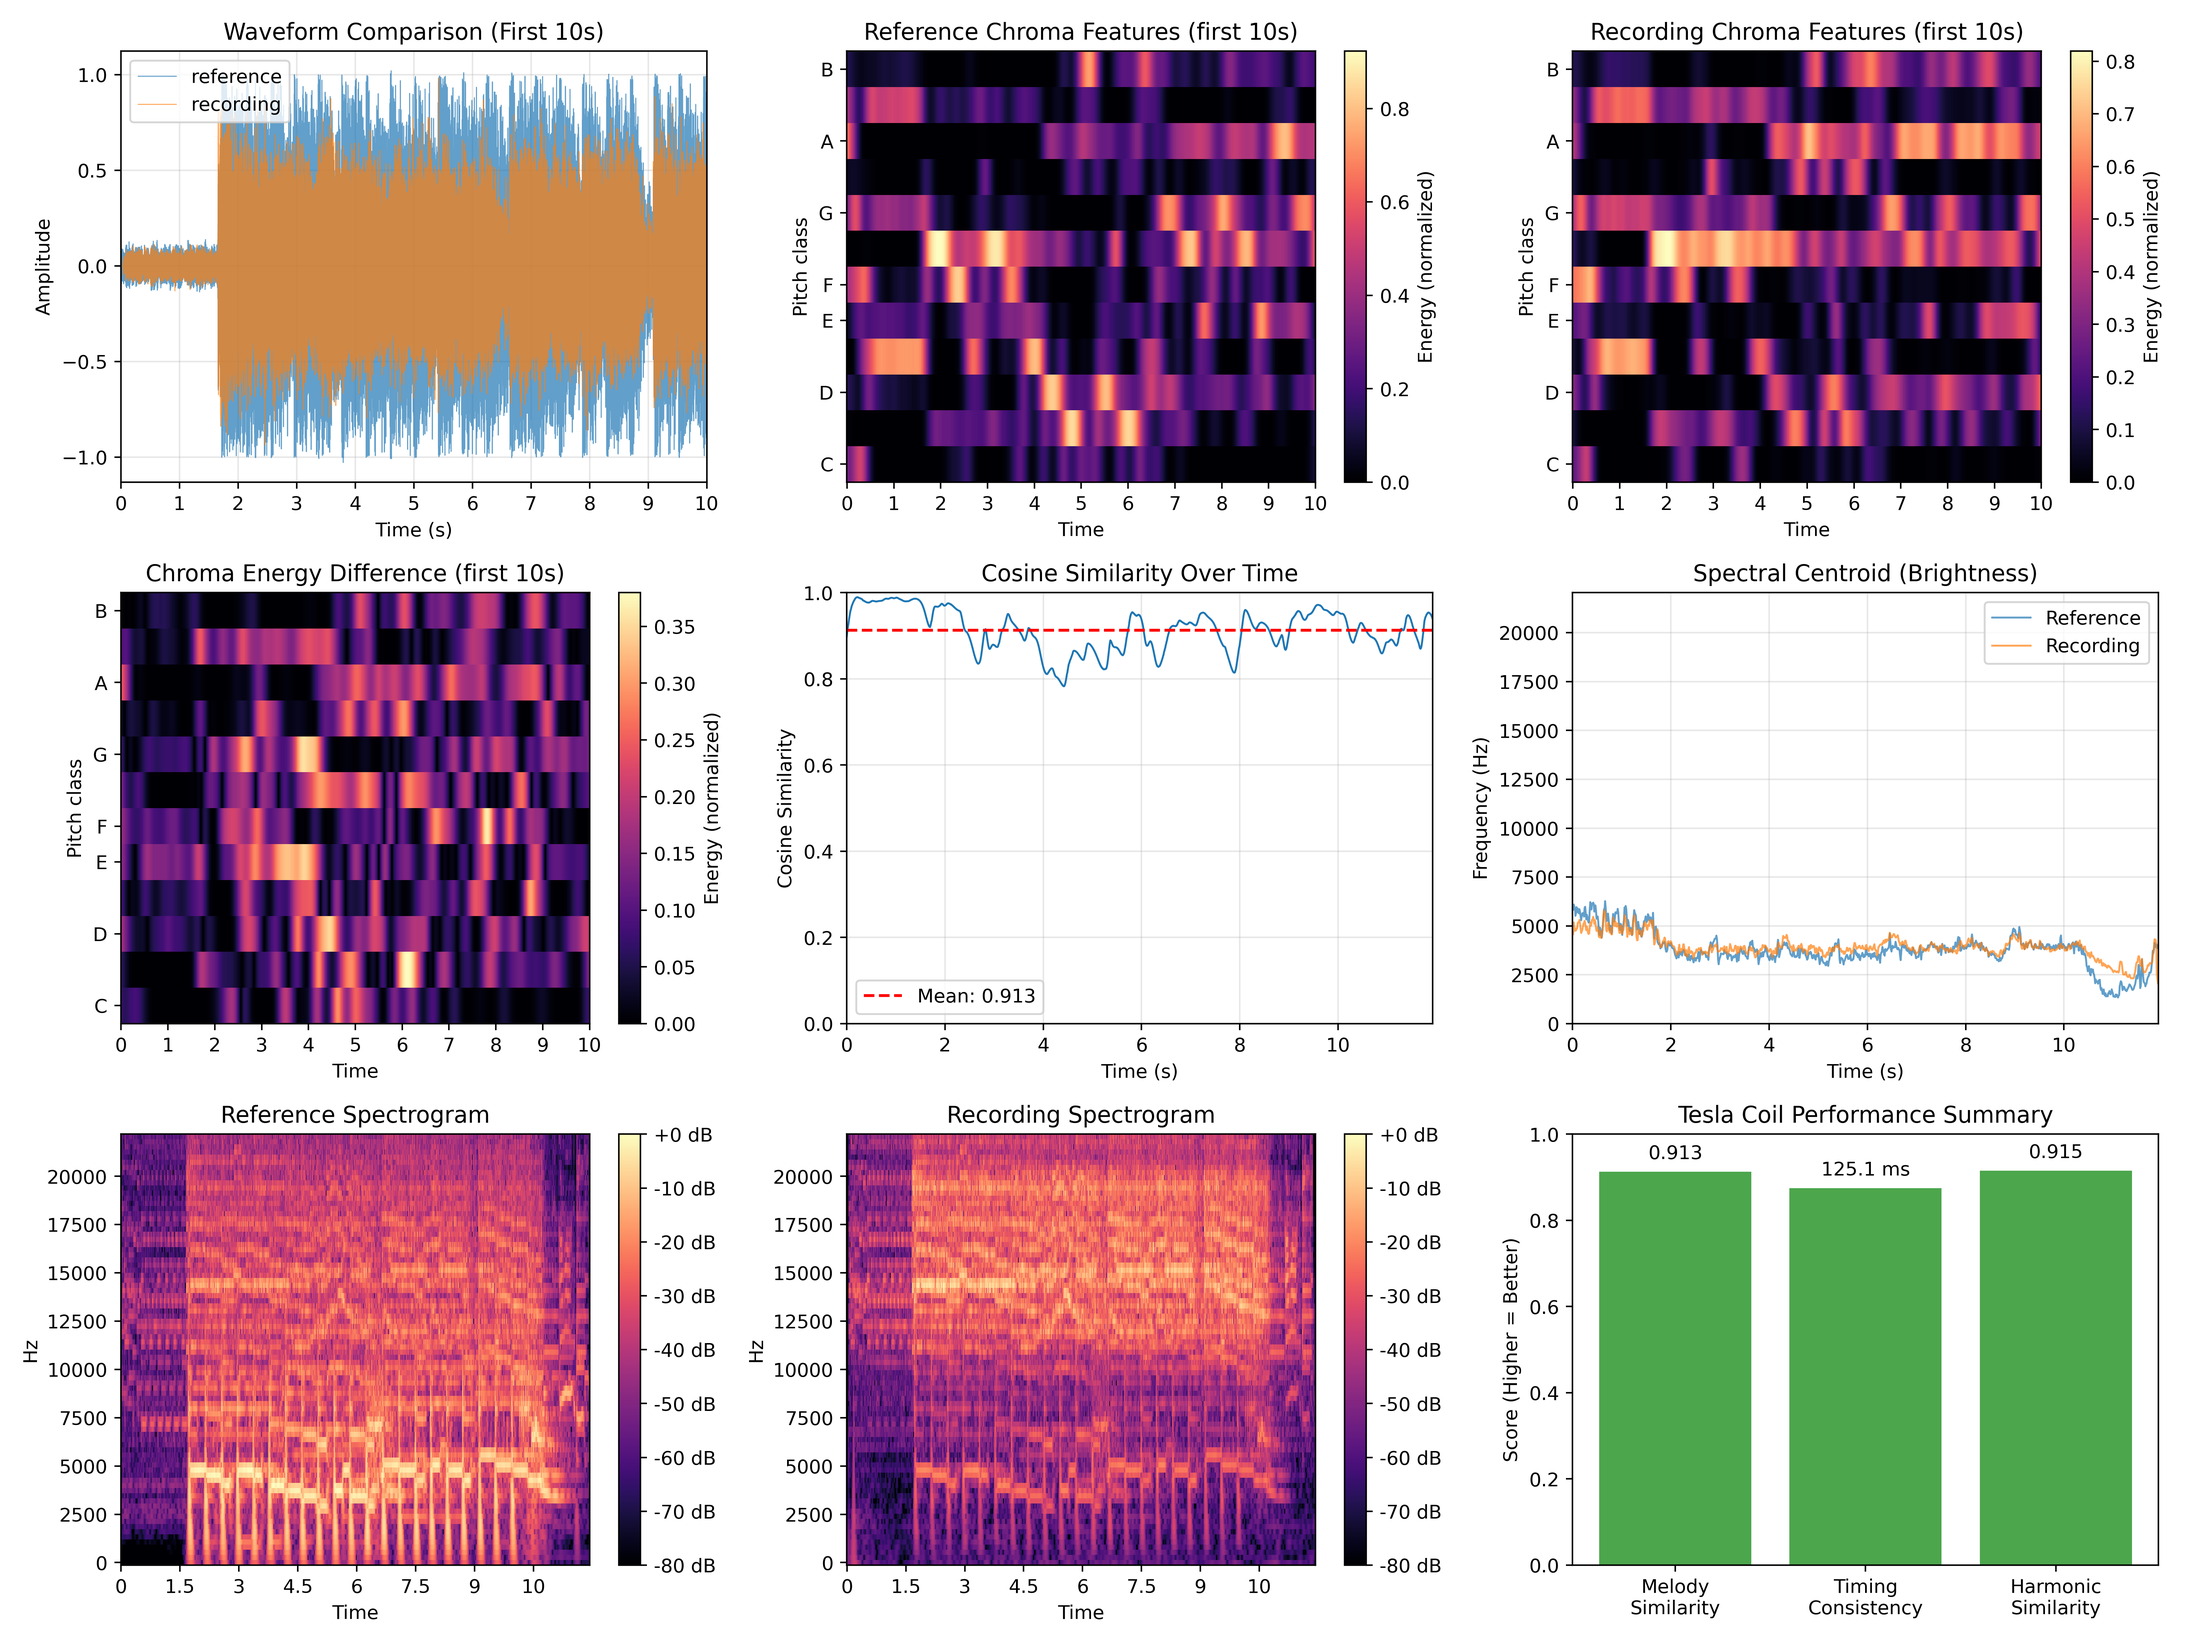
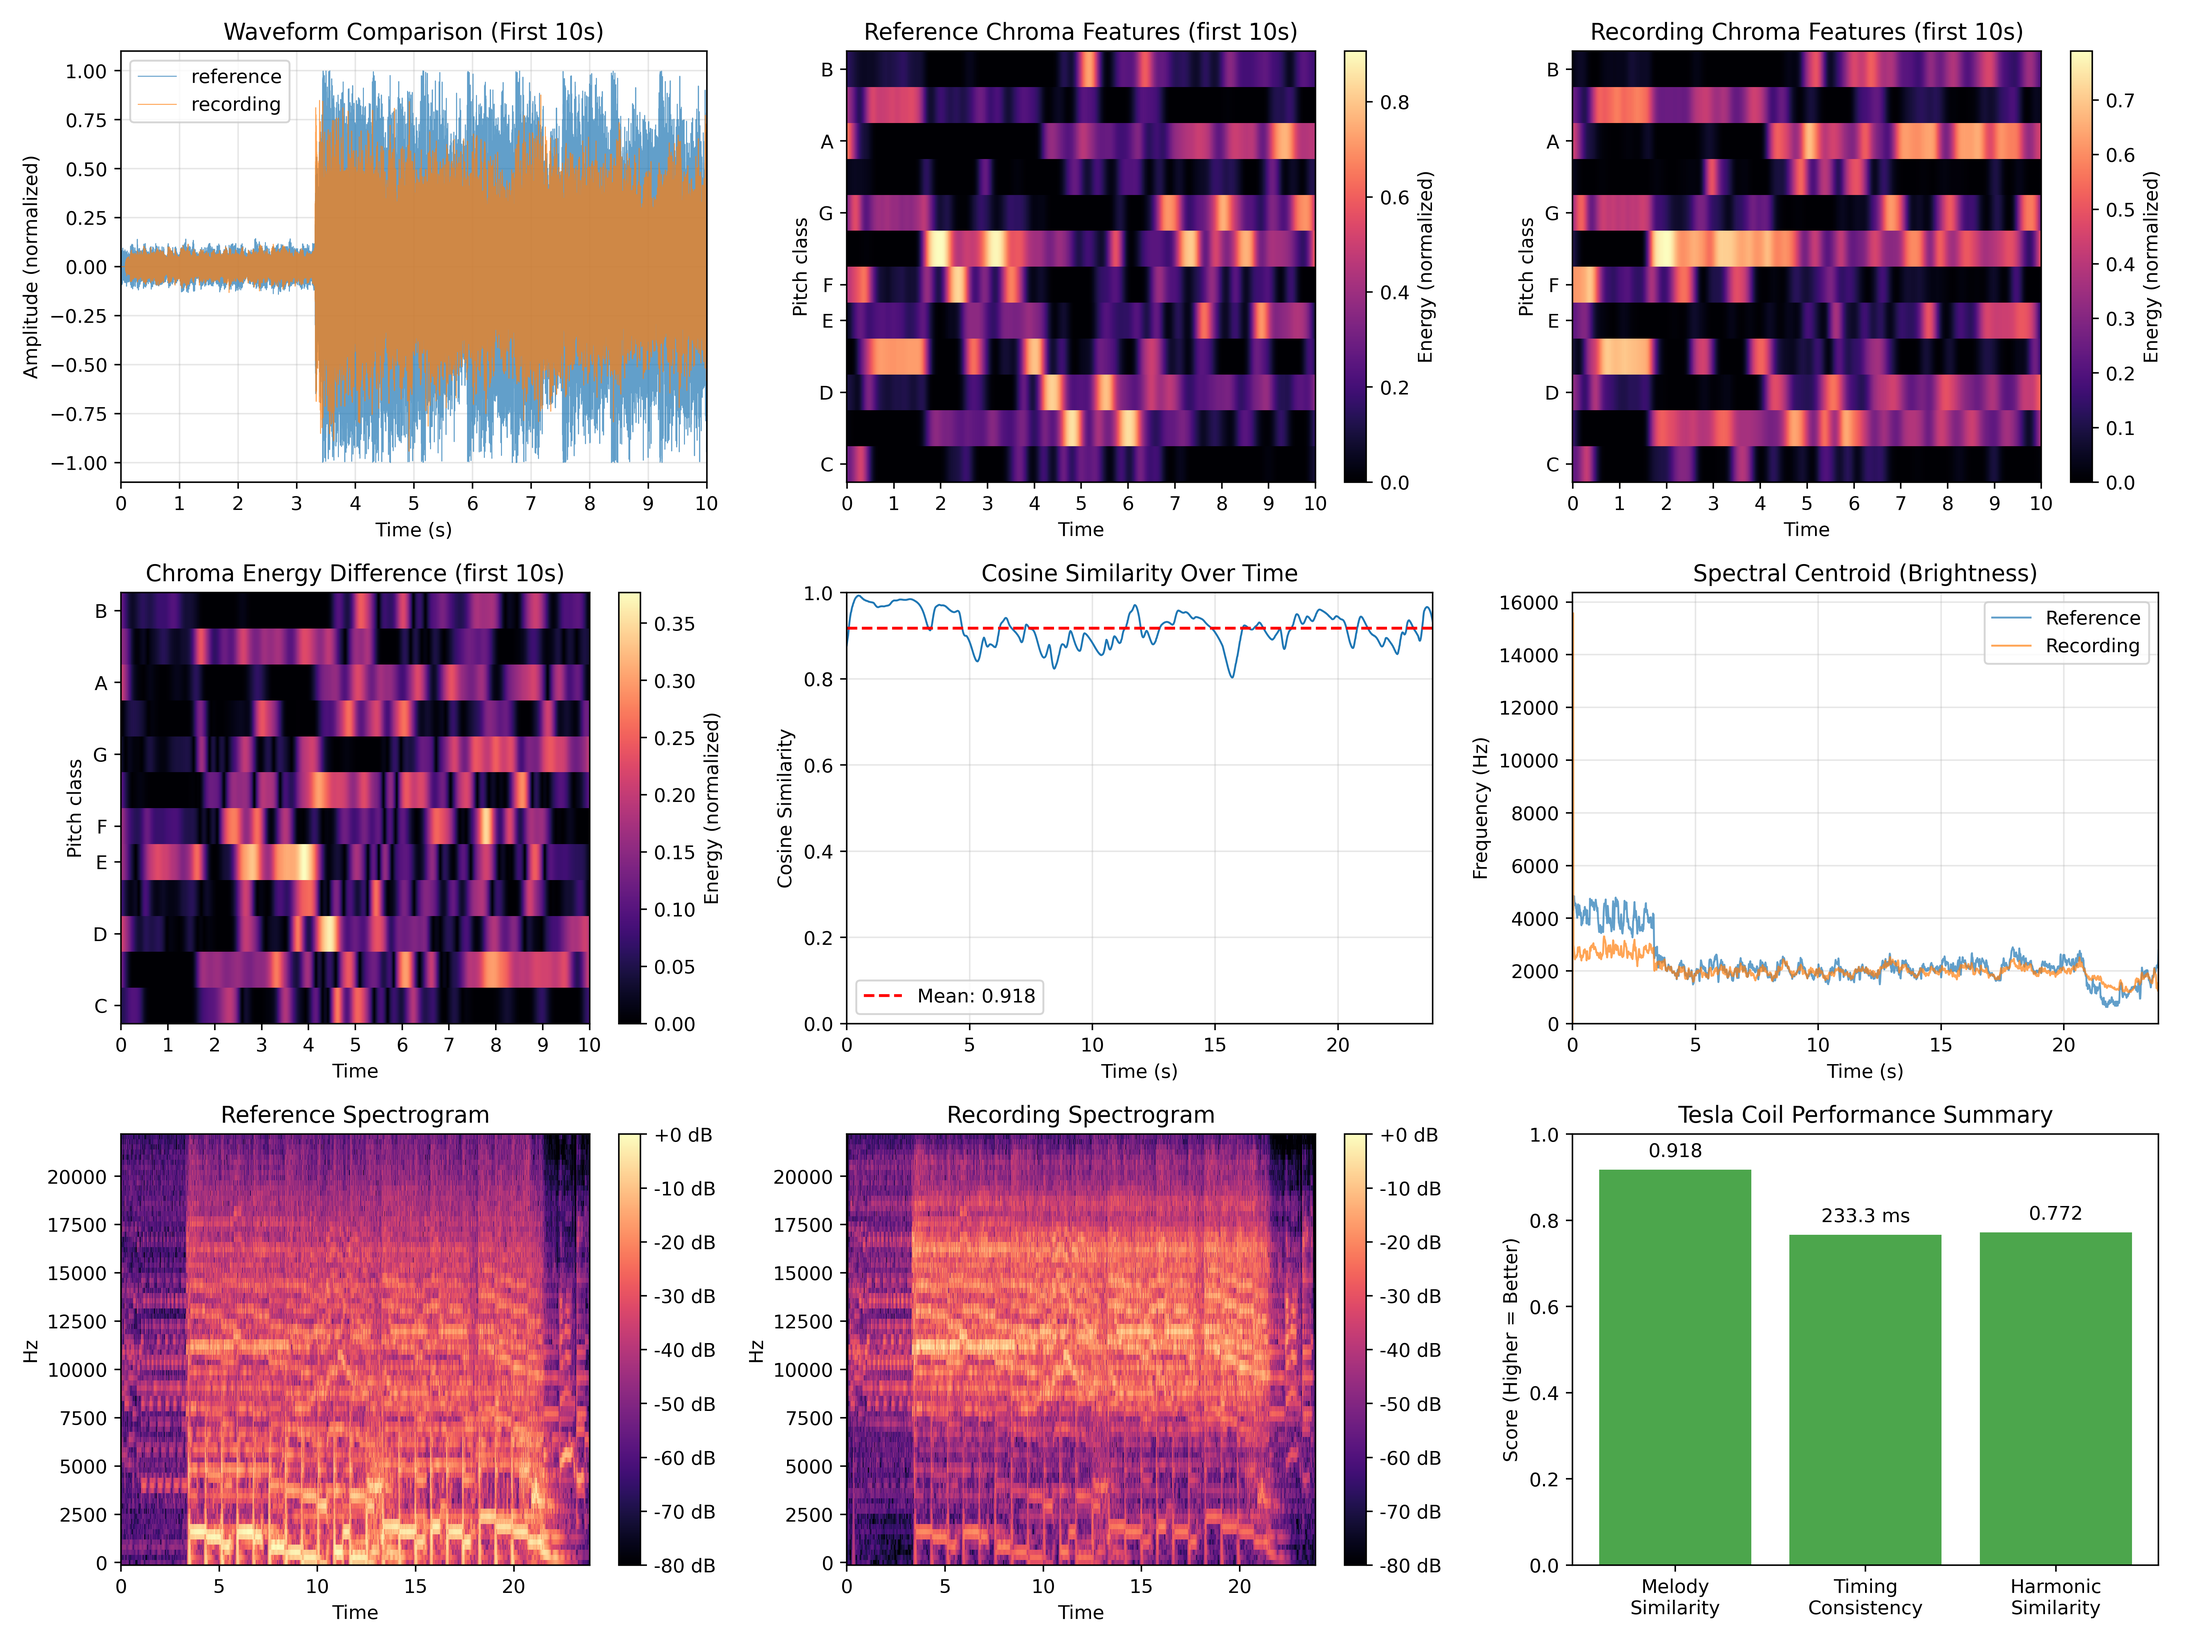
fixed

diff --git a/analysis/script.py b/analysis/script.py
@@ -15,7 +15,7 @@ def find_audio_alignment(y1, y2, sr, max_offset_seconds=15):
     Find the best alignment between two audio signals using cross-correlation.
     Returns the offset in samples (positive means y2 starts later than y1).
     """
-    print("Finding audio alignment...")
+    # print("Finding audio alignment...")
     
     # Use shorter segments for faster computation (first 30 seconds)
     max_samples = int(30 * sr)
@@ -36,7 +36,7 @@ def find_audio_alignment(y1, y2, sr, max_offset_seconds=15):
         print(f"Warning: Large offset detected ({best_lag/sr:.2f}s), limiting to {max_offset_seconds}s")
         best_lag = np.clip(best_lag, -max_offset_samples, max_offset_samples)
     
-    print(f"Best alignment: {best_lag/sr:.3f} seconds offset")
+    # print(f"Best alignment: {best_lag/sr:.3f} seconds offset")
     return best_lag
 
 
@@ -51,12 +51,12 @@ def sync_and_trim_audio(y1, y2, sr):
         # y2 starts later than y1, so trim start of y1
         y1_synced = y1[offset:]
         y2_synced = y2.copy()
-        print(f"Trimmed {offset/sr:.3f}s from start of first audio")
+        print(f"Trimmed {offset/sr:.3f}s from start of first audio for best alignment")
     elif offset < 0:
         # y1 starts later than y2, so trim start of y2
         y1_synced = y1.copy()
         y2_synced = y2[-offset:]
-        print(f"Trimmed {-offset/sr:.3f}s from start of second audio")
+        print(f"Trimmed {-offset/sr:.3f}s from start of second audio for best alignment")
     else:
         # Already aligned
         y1_synced = y1.copy()
@@ -121,15 +121,25 @@ def calculate_harmonic_content_similarity(y_reference, y_recording, sr):
 
 
 def load_preprocess(reference_file, recording_file):
-    y_reference, sr = librosa.load(reference_file, sr=44100)
-    print(f"Loaded reference: {len(y_reference)} samples ({len(y_reference)/sr:.2f} seconds)")
+    y_reference, sr_ref = librosa.load(reference_file, sr=None)
+    print(f"Loaded reference: samplerate {sr_ref/1000:.1f} kHz, {len(y_reference)} samples ({len(y_reference)/sr_ref:.2f} seconds)")
 
 
-    y_recording, sr = librosa.load(recording_file, sr=44100)
-    print(f"Loaded recording: {len(y_recording)} samples ({len(y_recording)/sr:.2f} seconds)")
+    y_recording, sr_rec = librosa.load(recording_file, sr=None)
+    print(f"Loaded recording: , samplerate {sr_rec/1000:.1f} kHz, {len(y_recording)} samples ({len(y_recording)/sr_rec:.2f} seconds)")
+
+    target_sr = 44100
+    if sr_ref != target_sr:
+        print(f"Reference samplerate not 44.1 kHz, resampling...")
+        y_reference = librosa.resample(y_reference, orig_sr=sr_ref, target_sr=target_sr)
+    if sr_rec != target_sr:
+        print(f"Recording samplerate not 44.1 kHz, resampling...")
+        y_recording = librosa.resample(y_recording, orig_sr=sr_rec, target_sr=target_sr)
+    
+    sr = target_sr
 
 
-    print("Syncing and trimming files")
+    # print("Syncing and trimming files")
     y_reference, y_recording = sync_and_trim_audio(y_reference, y_recording, sr)
     
     # Normalize amplitude to remove differences in audio volume
@@ -143,15 +153,17 @@ def analyze_chroma(y_reference, y_recording, sr, reference_file, recording_file,
     # Using Nyquist's on the new rate we get a cutoff frequency of about 11 kHz (like a lowpass filter)
     # This means we'll ignore any freqs above that. Most melodies never touch above these frequencies, nor do ours.
     # The lowpass filter not only blocks out irrelevant freqs but also coil noise. We only do this for chroma analysis.
-    y_reference = librosa.resample(y_reference, orig_sr=sr, target_sr=22050)
-    y_recording = librosa.resample(y_recording, orig_sr=sr, target_sr=22050)
+    chroma_sr = sr/2
+
+    chroma_reference = librosa.resample(y_reference, orig_sr=sr, target_sr=chroma_sr)
+    chroma_recording = librosa.resample(y_recording, orig_sr=sr, target_sr=chroma_sr)
     
     # Extract chroma features using CENS
     # Mainly following one of their official articles:
     # https://librosa.org/doc/0.11.0/auto_examples/plot_chroma.html
-    chroma_reference = librosa.feature.chroma_cens(y=librosa.effects.harmonic(y_reference), sr=sr, hop_length=512)
-    chroma_recording = librosa.feature.chroma_cens(y=librosa.effects.harmonic(y_recording), sr=sr, hop_length=512)
-    print("Extracted chroma features")
+    chroma_reference = librosa.feature.chroma_cens(y=librosa.effects.harmonic(chroma_reference), sr=chroma_sr, hop_length=512)
+    chroma_recording = librosa.feature.chroma_cens(y=librosa.effects.harmonic(chroma_recording), sr=chroma_sr, hop_length=512)
+    # print("Extracted chroma features")
     
     # Use Dynamic Time Warping to account for timing variations
     # While we don't have a musician playing sheet music, whose timing might be imperfect,
@@ -159,7 +171,7 @@ def analyze_chroma(y_reference, y_recording, sr, reference_file, recording_file,
     # ESP32 -> driver -> transformer -> mosfet control -> arc formation by ionizing air
     alignment = dtw(chroma_reference.T, chroma_recording.T, distance_only=False)
     dtw_path = list(zip(alignment.index1, alignment.index2))
-    print("Calculated DTW alignment")
+    # print("Calculated DTW alignment")
     
     # Align using DTW
     path_array = np.array(dtw_path)
@@ -194,13 +206,17 @@ def analyze_chroma(y_reference, y_recording, sr, reference_file, recording_file,
 
     # Calculate supporting metrics
     timing_jitter = calculate_timing_jitter(dtw_path)
-    hop_time = 512 / sr  # Time per frame
+    hop_time = 512 / chroma_sr  # Time per frame
     timing_jitter_ms = timing_jitter * hop_time * 1000  # Convert to milliseconds
     
     harmonic_similarity, spectral_centroids = calculate_harmonic_content_similarity(y_reference, y_recording, sr)
-    
-    print(f"\nResults:")
-    print(f"PRIMARY METRIC:")
+
+    # Print results
+    print("\n" + "="*60)
+    print("TESLA COIL PERFORMANCE ANALYSIS")
+    print("="*60)
+
+    print(f"\nPRIMARY METRIC:")
     print(f"  Mean cosine similarity (DTW-aligned): {mean_cosine_similarity:.4f} (higher is better)")
     print(f"\nSUPPORTING METRICS:")
     print(f"  Timing jitter: {timing_jitter_ms:.2f} ms (lower is better)")
@@ -220,25 +236,31 @@ def create_analysis_plots(y_reference, y_recording, chroma_reference, chroma_rec
                          cosine_similarities, sr, mean_cosine_similarity, 
                          timing_jitter_ms, harmonic_similarity, spectral_centroids, reference_file, recording_file):
     
+
     fig = plt.figure(figsize=(16, 12))
-    
+
     # Time axis for audio
     time_audio = np.linspace(0, len(y_reference)/sr, len(y_reference))
     time_chroma = np.linspace(0, len(y_reference)/sr, chroma_reference.shape[1])
     time_cosine = np.linspace(0, len(y_reference)/sr, len(cosine_similarities))
-    
-    # 1. Waveform comparison (abs)
+
+
+    # 1. Waveform comparison (first 10s, or shorter if needed)
     plt.subplot(3, 3, 1)
-    plt.plot(time_audio[:sr*10], y_reference[:sr*10], alpha=0.7, label='reference', linewidth=0.5)
-    plt.plot(time_audio[:sr*10], y_recording[:sr*10], alpha=0.7, label='recording', linewidth=0.5)
-    plt.title('Waveform Comparison (First 10s)')
+    duration_to_plot = 10  # seconds
+    num_samples_10s = min(len(y_reference), int(duration_to_plot * sr))
+    time_audio_10s = np.linspace(0, num_samples_10s / sr, num_samples_10s)
+
+    plt.plot(time_audio_10s, y_reference[:num_samples_10s], alpha=0.7, label='reference', linewidth=0.5)
+    plt.plot(time_audio_10s, y_recording[:num_samples_10s], alpha=0.7, label='recording', linewidth=0.5)
+    plt.title(f'Waveform Comparison (First {duration_to_plot}s)')
     plt.xlabel('Time (s)')
-    plt.ylabel('Amplitude')
-    plt.xlim(0, 10)
-    plt.xticks(range(0, 11))
+    plt.ylabel('Amplitude (normalized)')
+    plt.xlim(0, duration_to_plot)
+    plt.xticks(range(0, duration_to_plot + 1))
     plt.legend()
     plt.grid(True, alpha=0.3)
-    
+
     # 2. Chroma features - reference (first 10s)
     plt.subplot(3, 3, 2)
     frames_10s = int(10 * sr / 512)
@@ -284,7 +306,7 @@ def create_analysis_plots(y_reference, y_recording, chroma_reference, chroma_rec
     plt.title('Spectral Centroid (Brightness)')
     plt.xlabel('Time (s)')
     plt.ylabel('Frequency (Hz)')
-    plt.ylim(0, int(np.ceil(sr/2))) # take nyquist value aka max freq we can analyze
+    plt.ylim(0, None)
     plt.xlim(0, time_cent[-1])
     # plt.xticks(range(0, 11))
     plt.legend()
@@ -337,55 +359,6 @@ def create_analysis_plots(y_reference, y_recording, chroma_reference, chroma_rec
 
     plt.savefig(f'allresults_{reference_file}_{recording_file}.png', dpi=400)
     plt.show()
-    
-    # Print results
-    print("\n" + "="*60)
-    print("TESLA COIL PERFORMANCE ANALYSIS:")
-    print("="*60)
-    
-    if np.isnan(mean_cosine_similarity):
-        print("⚠  WARNING: Could not calculate melody similarity (numerical issues)")
-        print("   This might indicate silent periods or very low energy in the audio")
-    elif mean_cosine_similarity > 0.8:
-        print("🟢 EXCELLENT melody reproduction - Tesla coil reproduces music very well")
-    elif mean_cosine_similarity > 0.7:
-        print("🟡 GOOD melody reproduction - Tesla coil reproduces music recognizably")
-    elif mean_cosine_similarity > 0.5:
-        print("🟠 MODERATE melody reproduction - Some musical content preserved")
-    else:
-        print("🔴 LOW melody reproduction - Significant differences in musical content")
-    
-    # Timing analysis
-    if timing_jitter_ms < 50:
-        print("🟢 EXCELLENT timing consistency")
-    elif timing_jitter_ms < 150:
-        print("🟡 GOOD timing consistency")
-    elif timing_jitter_ms < 300:
-        print("🟠 MODERATE timing consistency - some timing drift")
-    else:
-        print("🔴 POOR timing consistency - significant timing variations")
-    
-    # Harmonic analysis
-    if harmonic_similarity > 0.9:
-        print("🟢 EXCELLENT harmonic content preservation")
-    elif harmonic_similarity > 0.7:
-        print("🟡 GOOD harmonic content preservation")
-    elif harmonic_similarity > 0.5:
-        print("🟠 MODERATE harmonic content preservation")
-    else:
-        print("🔴 LOW harmonic content preservation")
-    
-    print(f"\nFor reference:")
-    print(f"- Perfect melody reproduction would give similarity ≈ 1.0")
-    print(f"- Perfect timing would give jitter ≈ 0 ms")
-    print(f"- Perfect harmonic preservation would give similarity ≈ 1.0")
-    if not np.isnan(mean_cosine_similarity):
-        print(f"\nYour Tesla coil results:")
-        print(f"- Melody similarity: {mean_cosine_similarity:.3f}")
-        print(f"- Timing jitter: {timing_jitter_ms:.1f} ms")
-        print(f"- Harmonic similarity: {harmonic_similarity:.3f}")
-    else:
-        print(f"- Your result: Could not calculate (check for silence/low energy)")
 
 # Run the analysis
 if __name__ == "__main__":
